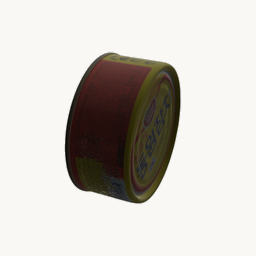
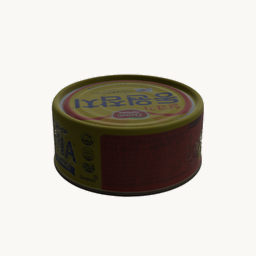
Update curated thumbnail poses

Changed region(s): [[0.1875, 0.1875, 0.8125, 0.8125]]

diff --git a/docs/js/audit.js b/docs/js/audit.js
@@ -1,5 +1,5 @@
 const HF_BASE = 'https://huggingface.co/datasets/willi19/object_processing/resolve/main/';
-const DATA_VERSION = '20260704-willi19-9aaa4ce-v6-tuna-tissue-label-v25';
+const DATA_VERSION = '20260704-willi19-9aaa4ce-thumbnail-poses-v26';
 const REVIEW_DB_KEY = 'object_processing.audit.review_versions.v1';
 const REVIEW_DRAFT_KEY = 'object_processing.audit.review_draft.v1';
 const REVIEW_MANIFEST_PATH = 'reviews/manifest.json';
@@ -611,10 +611,11 @@ function renderRow(row) {
     ? '<span class="chip issue">missing data</span>'
     : '';
   const thumbSrc = row.obj.thumb || `objects/${encodeURIComponent(row.id)}/thumb.png`;
+  const thumbUrl = versionedDataUrl(thumbSrc);
 
   article.innerHTML = `
     <aside class="object-meta">
-      <img class="thumb" src="${escapeHtml(thumbSrc)}?v=26" alt="${escapeHtml(row.label)}" loading="lazy">
+      <img class="thumb" src="${escapeHtml(thumbUrl)}" alt="${escapeHtml(row.label)}" loading="lazy">
       <div class="obj-title">
         <h2>${escapeHtml(row.label)}</h2>
         <code>${escapeHtml(row.id)}</code>

diff --git a/docs/gallery.html b/docs/gallery.html
@@ -166,7 +166,7 @@
 
     async function loadCatalog() {
       try {
-        catalog = await (await fetch('catalog.json?v=20260704-willi19-9aaa4ce-v6-tuna-tissue-v24')).json();
+        catalog = await (await fetch('catalog.json?v=20260704-willi19-9aaa4ce-thumbnail-poses-v26')).json();
       } catch (e) {
         console.error('Failed to load catalog.json:', e);
         $emptyMsg.textContent = 'Failed to load catalog.json.';
@@ -223,7 +223,7 @@
         card.onkeydown = (e) => { if (e.key === 'Enter') go(); };
 
         const thumb = obj.thumb
-          ? `<img src="objects/${obj.id}/thumb.png?v=27" alt="${escapeHtml(obj.label)}" loading="lazy" onerror="this.parentElement.innerHTML='<div class=placeholder>&#9645;</div>'">`
+          ? `<img src="objects/${obj.id}/thumb.png?v=28" alt="${escapeHtml(obj.label)}" loading="lazy" onerror="this.parentElement.innerHTML='<div class=placeholder>&#9645;</div>'">`
           : '<div class="placeholder">&#9645;</div>';
         card.innerHTML = `
           <div class="frame">${thumb}</div>

diff --git a/wiki/gallery.html b/wiki/gallery.html
@@ -165,7 +165,7 @@
 
     async function loadCatalog() {
       try {
-        catalog = await (await fetch('catalog.json?v=20260704-willi19-9aaa4ce-v6-tuna-tissue-v24')).json();
+        catalog = await (await fetch('catalog.json?v=20260704-willi19-9aaa4ce-thumbnail-poses-v26')).json();
       } catch (e) {
         console.error('Failed to load catalog.json:', e);
         $emptyMsg.textContent = 'Failed to load catalog.json.';
@@ -222,7 +222,7 @@
         card.onkeydown = (e) => { if (e.key === 'Enter') go(); };
 
         const thumb = obj.thumb
-          ? `<img src="objects/${obj.id}/thumb.png?v=27" alt="${escapeHtml(obj.label)}" loading="lazy" onerror="this.parentElement.innerHTML='<div class=placeholder>&#9645;</div>'">`
+          ? `<img src="objects/${obj.id}/thumb.png?v=28" alt="${escapeHtml(obj.label)}" loading="lazy" onerror="this.parentElement.innerHTML='<div class=placeholder>&#9645;</div>'">`
           : '<div class="placeholder">&#9645;</div>';
         card.innerHTML = `
           <div class="frame">${thumb}</div>

diff --git a/docs/viewer.html b/docs/viewer.html
@@ -223,6 +223,6 @@
   <!-- Pinned Babylon.js UMD builds — same version for core + loaders -->
   <script src="https://cdn.jsdelivr.net/npm/babylonjs@7.34.3/babylon.js"></script>
   <script src="https://cdn.jsdelivr.net/npm/babylonjs-loaders@7.34.3/babylonjs.loaders.min.js"></script>
-  <script src="js/viewer.js?v=20260704-willi19-9aaa4ce-v6-tuna-tissue-v24"></script>
+  <script src="js/viewer.js?v=20260704-willi19-9aaa4ce-thumbnail-poses-v26"></script>
 </body>
 </html>

diff --git a/wiki/viewer.html b/wiki/viewer.html
@@ -223,6 +223,6 @@
   <!-- Pinned Babylon.js UMD builds — same version for core + loaders -->
   <script src="https://cdn.jsdelivr.net/npm/babylonjs@7.34.3/babylon.js"></script>
   <script src="https://cdn.jsdelivr.net/npm/babylonjs-loaders@7.34.3/babylonjs.loaders.min.js"></script>
-  <script src="js/viewer.js?v=20260704-willi19-9aaa4ce-v6-tuna-tissue-v24"></script>
+  <script src="js/viewer.js?v=20260704-willi19-9aaa4ce-thumbnail-poses-v26"></script>
 </body>
 </html>

diff --git a/docs/audit.html b/docs/audit.html
@@ -567,6 +567,6 @@
 
   <script src="https://cdn.jsdelivr.net/npm/babylonjs@7.34.3/babylon.js"></script>
   <script src="https://cdn.jsdelivr.net/npm/babylonjs-loaders@7.34.3/babylonjs.loaders.min.js"></script>
-  <script src="js/audit.js?v=20260704-willi19-9aaa4ce-v6-tuna-tissue-label-v25"></script>
+  <script src="js/audit.js?v=20260704-willi19-9aaa4ce-thumbnail-poses-v26"></script>
 </body>
 </html>

diff --git a/docs/js/viewer.js b/docs/js/viewer.js
@@ -1,5 +1,5 @@
 const HF_BASE = 'https://huggingface.co/datasets/willi19/object_processing/resolve/main/';
-const DATA_VERSION = '20260704-willi19-9aaa4ce-v6-tuna-tissue-v24';
+const DATA_VERSION = '20260704-willi19-9aaa4ce-thumbnail-poses-v26';
 
 // Pipeline stages the viewer can toggle between. `file` is relative to the
 // object dir on HuggingFace; `simplified` falls back to the legacy mesh.glb.

diff --git a/wiki/js/viewer.js b/wiki/js/viewer.js
@@ -1,5 +1,5 @@
 const HF_BASE = 'https://huggingface.co/datasets/willi19/object_processing/resolve/main/';
-const DATA_VERSION = '20260704-willi19-9aaa4ce-v6-tuna-tissue-v24';
+const DATA_VERSION = '20260704-willi19-9aaa4ce-thumbnail-poses-v26';
 
 // Pipeline stages the viewer can toggle between. `file` is relative to the
 // object dir on HuggingFace; `simplified` falls back to the legacy mesh.glb.

diff --git a/object_processing/visualization/poses.py b/object_processing/visualization/poses.py
@@ -27,9 +27,9 @@ import numpy as np
 # NOTE: these stems were remapped after the symmetry / tabletop-dedup fix
 # regenerated every pose file with new indices. Each was rematched to its
 # original curated resting face by yaw-invariant up-vector (near-exact matches).
-# pepper_tuna, pepper_tuna_light, soaptray and yellow_funnel lost their curated
-# resting face during regeneration and now fall back to the auto-selected
-# tallest pose — re-curate if their hero shot looks wrong.
+# soaptray and yellow_funnel lost their curated resting face during regeneration
+# and now fall back to the auto-selected tallest pose — re-curate if their hero
+# shot looks wrong.
 POSE_OVERRIDE = {
     "blue_alarm": "003",   # stands the clock up on its legs (vs lying flat)
     "apple": "004",
@@ -60,8 +60,12 @@ POSE_OVERRIDE = {
     "mug_holder": "005",
     "jja_ramen": "001",
     "pink_clock": "003",
-    "paper_bowl": "001",
+    "paper_bowl": "000",
     "paper_cup": "006",
+    "pepper_tuna": "000",
+    "pepper_tuna_light": "002",
+    "pepsi": "008",
+    "pepsi_light": "008",
     "yellow_plastic_cup": "017",
     "wood_tray_big": "002",
     "wood_tray_small": "000",
@@ -71,8 +75,11 @@ POSE_OVERRIDE = {
     "white_plastic_box": "002",
     "white_soap_dish": "001",
     "white_table_lamp": "011",
-    "white_watering_can": "003",
+    "toilet_roll_holder_steel": "002",
+    "white_clock": "024",
+    "white_watering_can": "022",
     "magazine_file": "006",
+    "redcar": "005",
     "shoe_organizer": "000",
     "smallbowl": "001",
     "spam_can": "002",
